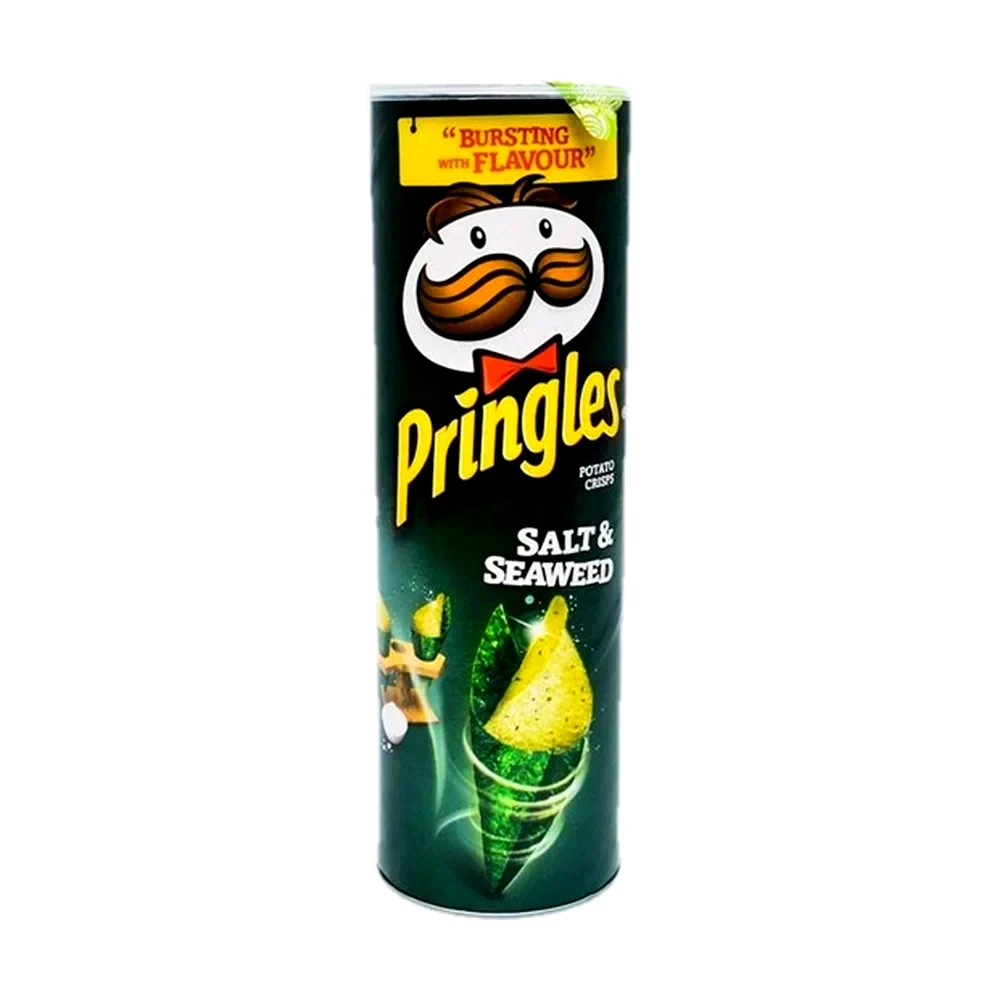
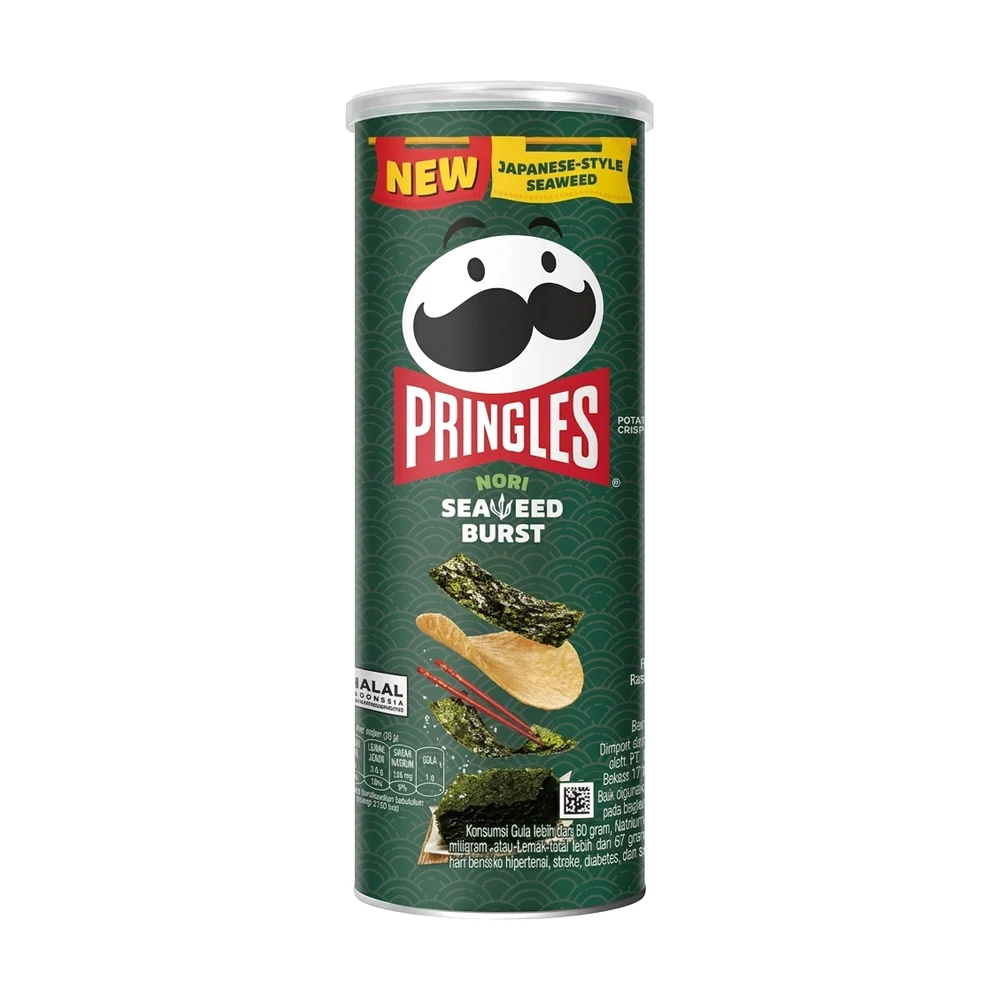
review(2549008-snack-khoai-tay): 6 Pringles/Slide — 5 Gemini redraws sent, 1 asked (RUBRIC v12)
Brand sites have no usable images (pringles.com blocks bots, Slide has no
site). Owner asked for Gemini redraws from reference photos: Lotte Mart
packshots for Seaweed Burst, Smokey Grilled Steak, Slide scallop pizza and
Slide cheese; staff photos for Teriyaki and Sour Cream 42g. Slide cheese
can prints 65 g while the KiotViet name says 60G, so it waits for the owner.

Changed region(s): [[0.341, 0.062, 0.651, 0.93]]

diff --git a/ASK_OWNER.md b/ASK_OWNER.md
@@ -82,6 +82,7 @@
 - **Bim bim Oishi snack tater thins khoai Tây siêu mỏng 75g** (`8934803053524`, Snack khoai tây): Hai SP cùng tên 'Bim bim Oishi snack tater thins khoai Tây siêu mỏng 75g' (mã 8934803070217 và 8934803053524) không ghi vị; ảnh của cả hai đều là vị Dưa leo. Mỗi mã là vị gì (dưa leo / tảo biển / vị khác), gói bao nhiêu gam? Trang Oishi chỉ ghi cỡ 12g/30g/65g.
 - **Bim bim Ostar vị tảo biển 36GR /gói** (`8936036020939`, Snack khoai tây): SP 'Bim bim Ostar vị tảo biển 36GR' (mã 8936036020939): ảnh hiện tại là bao bì O'Star/Swing đời cũ; trang Orion chỉ còn bao bì mới và hồ sơ công bố 78/OFV/2025 ghi các cỡ 20/33/55/95/152g — không có 36g. Cửa hàng còn bán gói 36g bao bì cũ, hay đã chuyển sang gói mới (cỡ nào)? Nếu đã chuyển: dùng ảnh hãng bao bì mới và sửa tên/khối lượng trên KiotViet. (Thương hiệu trên KiotViet đang ghi 'Oishi', đúng ra là O'Star của Orion.)
 - **Bánh tráng thin flutes** (`8934803055047`, Snack khoai tây): SP 'Bánh tráng thin flutes' (mã 8934803055047) không ghi vị và khối lượng; ảnh chỉ thấy chữ 'Thin Flutes'. Oishi Thin Flutes có vị Mayo và Thịt nướng phô mai (cỡ 30g/50g). SP này vị gì, bao nhiêu gam?
+- **SNACK SLIDE-CHEESE ( 60G X 28LON)** (`8934680011686`, Snack khoai tây): Slide Cheese mã 8934680011686: lon có ảnh (Lotte Mart, Gemini vẽ lại) in KHỐI LƯỢNG TỊNH 65 g, tên KiotViet ghi 60G. Lon cửa hàng đang bán là 65 g hay 60 g? 65 g → sửa tên/mô tả và gửi ảnh này; 60 g → cần chụp lon thật.
 - **Bánh O'star kim Chi 58g** (`8936036021653`, Snack khoai tây): SP 'Bánh O'star kim Chi 58g' (mã 8936036021653): ảnh hiện tại là bao bì O'Star/Swing đời cũ; trang Orion chỉ còn bao bì mới và hồ sơ công bố 79/OFV/2025 ghi các cỡ 20/33/55/95/152g — không có 58g. Cửa hàng còn bán gói 58g bao bì cũ, hay đã chuyển sang gói mới (cỡ nào)? Nếu đã chuyển: dùng ảnh hãng bao bì mới và sửa tên/khối lượng trên KiotViet.
 - **Bim bim Ostar to vị tảo biển 53g** (`8936036021646`, Snack khoai tây): SP 'Bim bim Ostar to vị tảo biển 53g' (mã 8936036021646): ảnh hiện tại là bao bì O'Star/Swing đời cũ; trang Orion chỉ còn bao bì mới và hồ sơ công bố 78/OFV/2025 ghi các cỡ 20/33/55/95/152g — không có 53g. Cửa hàng còn bán gói 53g bao bì cũ, hay đã chuyển sang gói mới (cỡ nào)? Nếu đã chuyển: dùng ảnh hãng bao bì mới và sửa tên/khối lượng trên KiotViet.
 - **Bim bim 2 mix vị phô mai** (`8936029425321`, Snack khoai tây): Hai SP 'Bim Orion 2MIX' (mã 8936029425314) và 'Bim bim 2 mix vị phô mai' (mã 8936029425321): Orion có 2 vị 2Mix là phô mai cay và pizza cà chua; ảnh SP thứ nhất là vị phô mai cay. Mỗi mã là vị nào, gói bao nhiêu gam? (Trang Orion không có ảnh packshot 2Mix nên ảnh sẽ cần chụp.)

diff --git a/RUBRIC.md b/RUBRIC.md
@@ -112,3 +112,4 @@ Category có thể có khuôn riêng chi tiết hơn trong `categories/<id>-<slu
 | v9 | 2026-10-15 | Mô tả: KiotViet đã có mô tả **chi tiết của hãng/nhà phân phối** (thành phần, quy cách, cách dùng…) thì **KEEP**, kể cả khi có định dạng HTML; chỉ viết mới khi trống, quá sơ sài hoặc sai SP. | Chủ (đậu phộng Tân Tân) |
 | v10 | 2026-10-15 | Trang hãng chặn bot hoàn toàn (vd. pringles.com: Akamai 405 cả curl lẫn trình duyệt) và chủ **chấp nhận ảnh chụp hiện có** — **chỉ ảnh đạt chuẩn**: thấy trọn bao bì (nắp, đáy, mặt trước), đủ nét; ảnh chụp cận/cắt mất phần bao bì → `NEEDS_PHOTO`, không cứu bằng chỉnh màu. Ảnh đạt thì tách nền như v5, `tone.py` như v7, rồi **tăng độ tươi** cho màu giống packshot hãng — độ bão hoà ×1,25, tương phản ×1,08, chỉ trên vùng SP, nền giữ trắng; xoá đốm nền sót (kệ, bokeh) ngoài SP. Không vẽ lại SP. Ghi `source.ownerAccepted: true`. | Chủ (Pringles) |
 | v11 | 2026-10-15 | Nguồn ảnh/mô tả thêm **trang web của nhà phân phối (NPP) đang cấp hàng cho Trạm 8** (vd. Hương Thủy cấp Pringles). Ghi NPP vào `data/brands.json` với `role: "distributor"`, danh sách thương hiệu NPP phân phối và bằng chứng (tên công ty/MST, chủ xác nhận là NPP của mình). Chỉ dùng ảnh **đúng SP, đúng vị, đúng bao bì đang bán**; NPP không phải nhà bán lẻ/sàn. Sàn TMĐT, siêu thị, shop thường vẫn **cấm**. | Chủ (Pringles) |
+| v12 | 2026-10-15 | Trang hãng không có/chặn ảnh và ảnh hiện có không đạt → **Gemini vẽ lại** được dùng (nới v8; phiên AI được điều khiển Gemini theo yêu cầu chủ). Ảnh mẫu theo thứ tự: catalogue/báo giá NPP chính thức (vd. NPP Hương Thủy) → ảnh nhà bán lẻ (BHX, Lotte Mart…) **chỉ làm mẫu cho Gemini, không đăng thẳng** → ảnh tự chụp. Prompt: chép đúng chữ lớn, không bịa chữ, bỏ watermark/cờ của nhà bán lẻ, nền trắng 1:1. AI kiểm từng ảnh với mẫu (chữ vị, khối lượng, logo); chữ sai thì cho Gemini sửa hoặc bỏ. Ghi `source.aiGenerated: true`, `referenceUrl`, khác biệt vào `reason`; chủ duyệt từng SP trên Hub. Khối lượng trên lon khác tên KiotViet → `ASK_OWNER`. | Chủ (Pringles/Slide) |

diff --git a/STATUS.md b/STATUS.md
@@ -2,13 +2,13 @@
 
 > Sinh tự động bởi `node tools/status.mjs`. **Không sửa tay.** Nguồn sự thật là `meta.json` của từng SP.
 
-Tổng 2448 SP · đã xem 2428 (99%) · xong 356 · chờ chủ duyệt 959 · cần chụp 884 · hỏi chủ 217
+Tổng 2448 SP · đã xem 2428 (99%) · xong 356 · chờ chủ duyệt 962 · cần chụp 880 · hỏi chủ 218
 
 Thứ tự làm: từ trên xuống (doanh số 90 ngày giảm dần). `xong` = giữ nguyên + đã lên web.
 
 | # | Category | DT 90 ngày | Tổng | Chưa xem | Giữ nguyên | Đang làm | Cần chụp | Hỏi chủ | Chờ duyệt | Đã duyệt | Đã lên web |
 |---|---|---:|---:|---:|---:|---:|---:|---:|---:|---:|---:|
-| 1 | Snack khoai tây | 0.0tr | 75 | 0 | 3 | 0 | 16 | 18 | 38 | 0 | 0 |
+| 1 | Snack khoai tây | 0.0tr | 75 | 0 | 3 | 0 | 12 | 19 | 41 | 0 | 0 |
 | 2 | Snack bắp & phồng | 0.0tr | 64 | 0 | 0 | 6 | 19 | 15 | 24 | 0 | 0 |
 | 3 | Kem que | 0.0tr | 60 | 0 | 0 | 0 | 24 | 5 | 31 | 0 | 0 |
 | 4 | Socola thanh | 0.0tr | 53 | 0 | 0 | 0 | 11 | 5 | 37 | 0 | 0 |

diff --git a/categories/2549008-snack-khoai-tay/65205869-snack-khoai-tay-pringles-nori-seaweed-bust-102g/description.md b/categories/2549008-snack-khoai-tay/65205869-snack-khoai-tay-pringles-nori-seaweed-bust-102g/description.md
@@ -1,4 +1,4 @@
-Snack khoai tây Pringles vị muối và rong biển (Salt & Seaweed), các lát khoai xếp chồng trong ống có nắp đậy.
+Snack khoai tây Pringles vị rong biển Nori (Seaweed Burst), hương rong biển kiểu Nhật, các lát khoai xếp chồng trong ống có nắp đậy.
 
 Quy cách: 102 g · ống
 Thương hiệu: Pringles

diff --git a/categories/2549008-snack-khoai-tay/65192677-slide-khoai-tay-lat-so-diep-bao-ngu-60gr/description.md b/categories/2549008-snack-khoai-tay/65192677-slide-khoai-tay-lat-so-diep-bao-ngu-60gr/description.md
@@ -1,4 +1,4 @@
-Bánh lát khoai tây Slide vị sò điệp bào ngư, các lát khoai xếp trong lon có nắp đậy.
+Bánh lát khoai tây Slide vị pizza sò điệp và bào ngư (Scallop & Abalone Pizza), các lát khoai xếp trong lon có nắp đậy.
 
 Quy cách: 60 g · lon
 Thương hiệu: Slide

diff --git a/categories/2549008-snack-khoai-tay/65205867-snack-khoai-tay-pringles/description.md b/categories/2549008-snack-khoai-tay/65205867-snack-khoai-tay-pringles/description.md
@@ -1,0 +1,4 @@
+Snack khoai tây Pringles vị bít tết nướng hun khói (Smokey Grilled Steak), các lát khoai xếp chồng trong ống có nắp đậy.
+
+Quy cách: 102 g · ống
+Thương hiệu: Pringles
